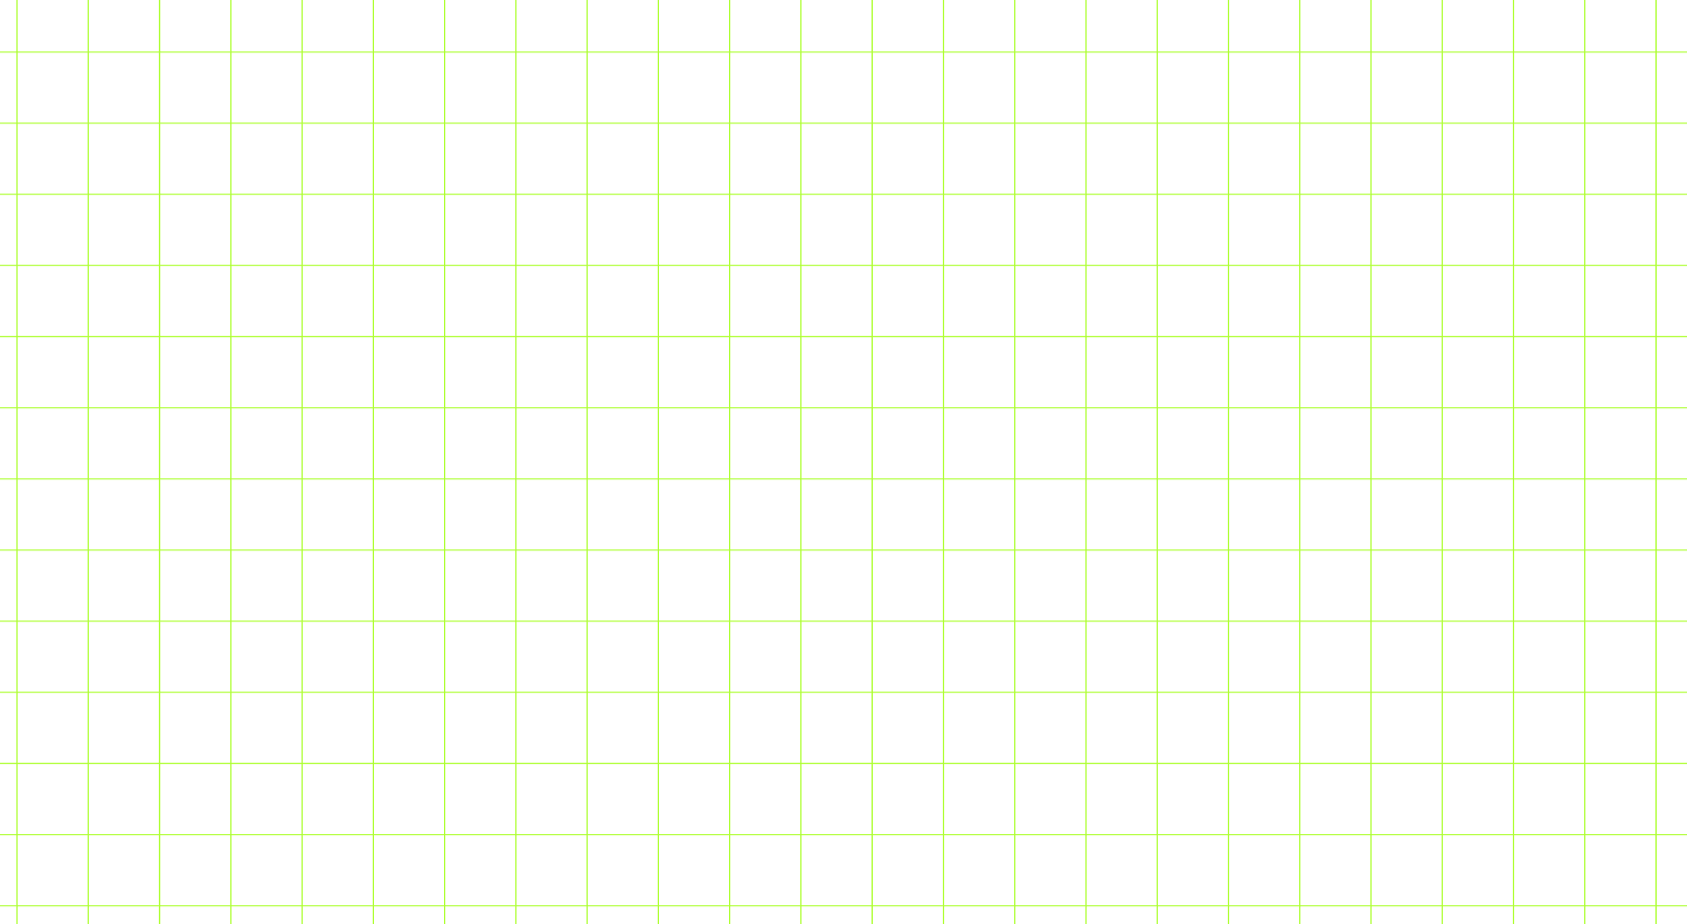
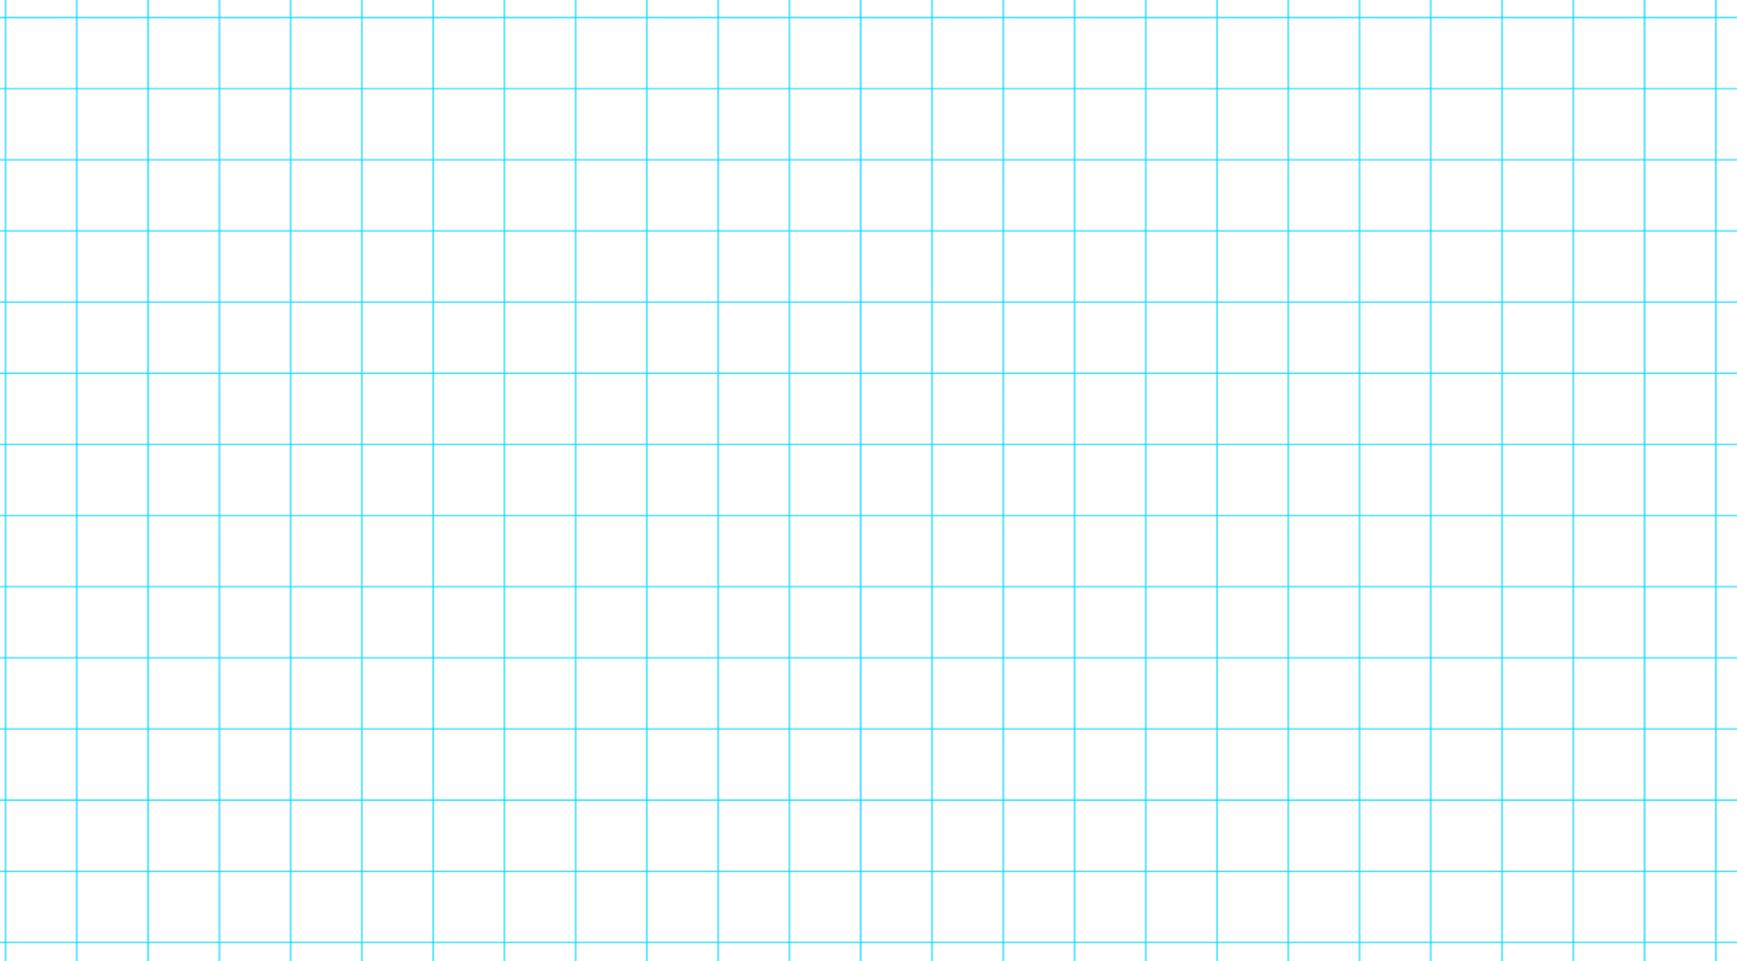
update files

Changed region(s): [[0.0, 0.0, 1.0, 1.0]]

diff --git a/style.css b/style.css
@@ -20,10 +20,10 @@ body {
   background-color: rgb(0, 0, 0);
 }
 ::-webkit-scrollbar-thumb {
-  background: linear-gradient(transparent, greenyellow);
+  background: linear-gradient(transparent, #04d9ff);
 }
 ::-webkit-scrollbar-thumb:hover {
-  background: linear-gradient(transparent, greenyellow);
+  background: linear-gradient(transparent, #04d9ff);
 }
 
 a {
@@ -44,7 +44,7 @@ nav {
   margin: 20px 40px;
   padding: 20px;
   border-radius: 100px;
-  box-shadow: 0 0 60px -15px greenyellow;
+  box-shadow: 0 0 60px -15px #04d9ff;
   display: flex;
   justify-content: space-between;
   align-items: center;
@@ -60,7 +60,7 @@ nav {
   width: 100%;
   height: 100%;
   z-index: -5;
-  opacity: 0.13;
+  opacity: 0.3;
 }
 
 .logo {
@@ -81,7 +81,7 @@ nav {
 }
 
 .greenyellow {
-  color: greenyellow;
+  color: #04d9ff;
 }
 
 .name {
@@ -113,10 +113,16 @@ nav {
   padding: 15px 20px;
   border-radius: 20px;
   font-family: "Mohave", sans-serif;
-  background-color: rgb(151, 215, 22);
+  background-color: #04d9ff;
   cursor: pointer;
   font-weight: 600;
   font-size: large;
+  border: none;
+  transition: 0.5s ease-in-out;
+}
+
+.hero-btn:hover {
+  transform: scale(1.1);
 }
 
 .hero {
@@ -175,7 +181,7 @@ nav {
 }
 
 .strip {
-  background: #b1fc03;
+  background: #04d9ff;
   overflow: hidden;
   white-space: nowrap;
   position: relative;

diff --git a/index.html b/index.html
@@ -14,7 +14,7 @@
   </div>
   <nav>
     <div>
-      <img class="logo" src="./icons/logo.svg" alt="Logo">
+      <img class="logo" src="./icons/logo.png" alt="Logo">
     </div>
     <ul class="links">
       <li><a href="#">Home</a></li>
@@ -45,13 +45,13 @@
           inspire!</p>
       </div>
       <div class="about-img">
-        <img class="img" src="./icons/handBulb.svg" alt="Events">
+        <img class="img" src="./icons/handBulb.png" alt="Events">
       </div>
     </div>
 
     <div class="col">
       <div class="about-img">
-        <img class="img" src="./icons/trophy.svg" alt="Events">
+        <img class="img" src="./icons/trophy.png" alt="Events">
       </div>
       <div class="text">
         <h3>Hackathons</h3>
@@ -66,7 +66,7 @@
           skills!</p>
       </div>
       <div class="about-img">
-        <img class="img" src="./icons/magicBox.png" alt="Events">
+        <img class="img" src="./icons/magicBox.jpeg" alt="Events">
       </div>
     </div>
   </div>
